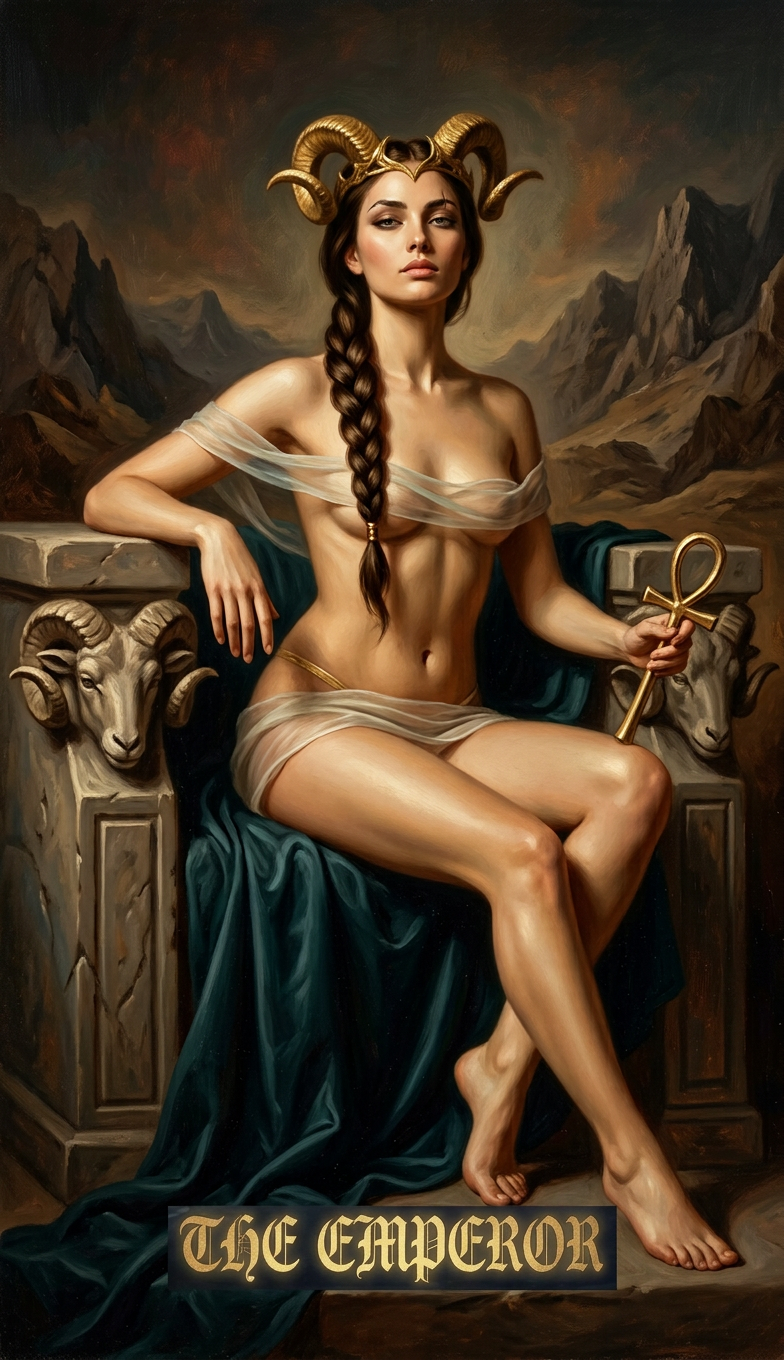
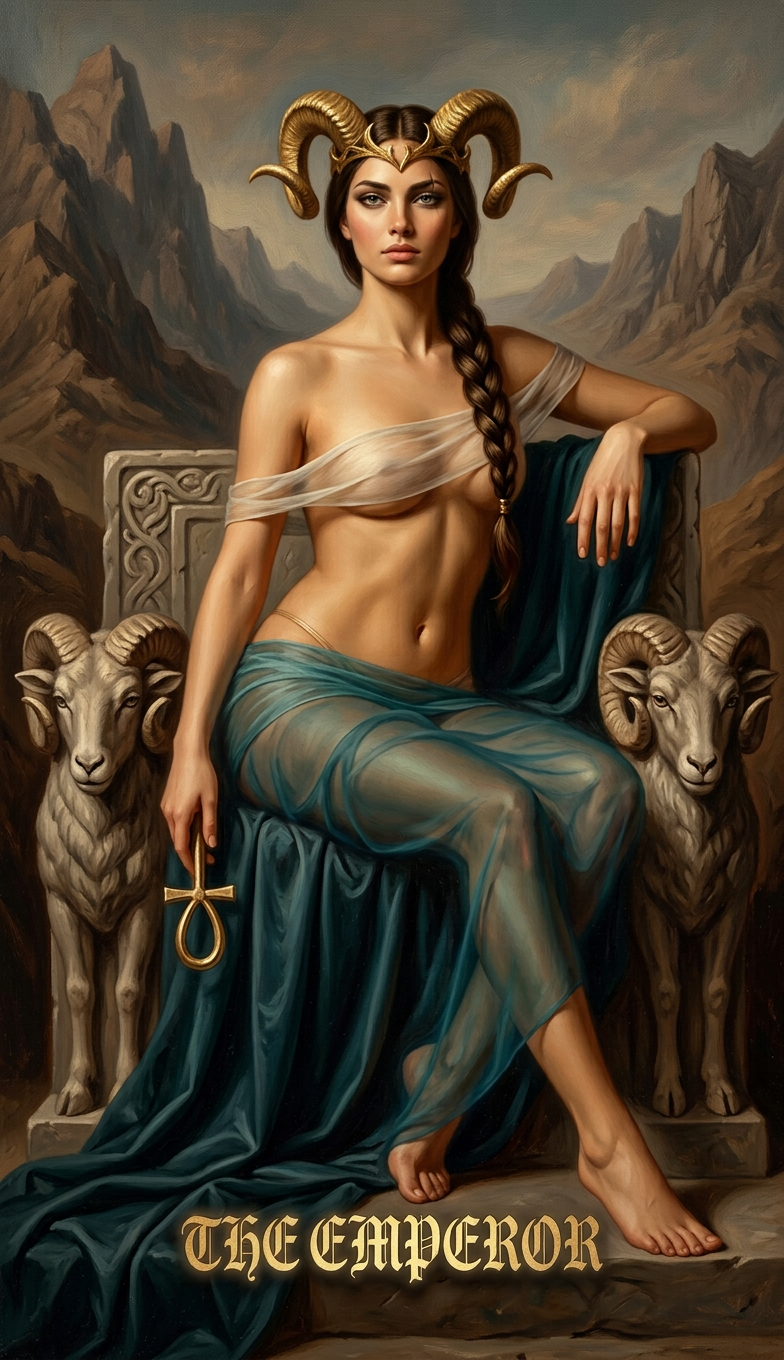
Them Disambiguation lock: chan model nham EMPEROR <-> EMPRESS
- TITLE_DISAMBIGUATION trong make-prompts.py: chan ro 'khong phai THE EMPRESS'
  cho 04-emperor (nhan vat nu -> model tu doi thanh EMPRESS) va nguoc lai cho 03-empress
- Sinh lai 04-emperor (lan 1 bi bo loc chan, lan 2 thanh cong)
- edge dai chu 10.87 (truoc 9.23), khac ban truoc 16.5%

diff --git a/index.html b/index.html
@@ -58,7 +58,7 @@
 </div></div>
 
 <script>
-const DATA = {"cards": [{"slug": "00-fool", "file": "cards/00-fool.png", "title": "Kẻ Ngây Thơ", "title_en": "THE FOOL", "title_vn": "Kẻ Ngây Thơ", "width": 784, "height": 1360, "scene": "a carefree 19-year-old woman wanderer draped only in a transparent silk veil so fine it clings and reveals her bare body beneath, the veil slipping from one shoulder and streaming behind her, a white rose lifted in one hand and her eyes lowered to look at it, stepping lightly toward a cliff edge, a small white dog leaping at her heel, distant mountains under a golden morning sun", "prompt": "cards/prompts/00-fool.txt"}, {"slug": "01-magician", "file": "cards/01-magician.png", "title": "Pháp Sư", "title_en": "THE MAGICIAN", "title_vn": "Pháp Sư", "width": 784, "height": 1360, "scene": "a nude young woman magician, bare torso with a length of silk slung low across her hips, one hand raising a wand to the sky and the other pointing down to the earth, the altar table before her laid with a cup, a sword, a wand and a pentacle, a garden of black roses behind her", "prompt": "cards/prompts/01-magician.txt"}, {"slug": "02-priestess", "file": "cards/02-priestess.png", "title": "Nữ Tư Tế", "title_en": "THE HIGH PRIESTESS", "title_vn": "Nữ Tư Tế", "width": 784, "height": 1360, "scene": "a serene nude priestess, bare shoulders and the soft line of her breasts veiled only by a drift of sheer gauze, seated between two stone pillars, a scroll of mystery resting in her lap, a silver crescent moon at her feet", "prompt": "cards/prompts/02-priestess.txt"}, {"slug": "03-empress", "file": "cards/03-empress.png", "title": "Nữ Hoàng", "title_en": "THE EMPRESS", "title_vn": "Nữ Hoàng", "width": 784, "height": 1360, "scene": "a slender nude empress, one breast bared, a crown of flowers in loosened hair, reclining on a velvet throne amid ripe golden wheat and fruits, a heart-shaped shield of Venus leaning beside her", "prompt": "cards/prompts/03-empress.txt"}, {"slug": "04-emperor", "file": "cards/04-emperor.png", "title": "Hoàng Đế", "title_en": "THE EMPEROR", "title_vn": "Hoàng Đế", "width": 784, "height": 1360, "scene": "a serene 25-year-old female emperor reclining gracefully on a stone throne carved with ram heads, draped only in a diaphanous transparent silk veil so fine it clings to her soft curves and glows with warm light against her skin, the gossamer fabric slipping from one shoulder, holding an ankh scepter loosely in one hand, barren rugged mountains behind her", "prompt": "cards/prompts/04-emperor.txt"}, {"slug": "05-hierophant", "file": "cards/05-hierophant.png", "title": "Giáo Hoàng", "title_en": "THE HIEROPHANT", "title_vn": "Giáo Hoàng", "width": 784, "height": 1360, "scene": "a serene 24-year-old female high mystic priestess draped only in a diaphanous transparent red silk veil so fine it clings to her curves and glows with warm candlelight against her skin, the gossamer-thin fabric slipping from one shoulder, raising one blessing hand, two fair-skinned kneeling female acolytes before her, sacred temple pillars behind", "prompt": "cards/prompts/05-hierophant.txt"}, {"slug": "06-lovers", "file": "cards/06-lovers.png", "title": "Tình Nhân", "title_en": "THE LOVERS", "title_vn": "Tình Nhân", "width": 784, "height": 1360, "scene": "a fair-skinned nude young man and a nude young woman standing hand in hand beneath a great winged angel, her body turned three-quarters toward the viewer with silk fallen to her hip and his hand at the small of her back, the tree of knowledge with a serpent behind her, the tree of flames behind him", "prompt": "cards/prompts/06-lovers.txt"}, {"slug": "07-chariot", "file": "cards/07-chariot.png", "title": "Chiến Xa", "title_en": "THE CHARIOT", "title_vn": "Chiến Xa", "width": 784, "height": 1360, "scene": "a heroic bare-shouldered woman charioteer wrapped in loose sheer white silk with no armor, standing tall in a stone chariot between two sphinxes under a starry canopy, a walled city behind her", "prompt": "cards/prompts/07-chariot.txt"}], "total": 78, "generated": "2026-09-07 16:55 UTC"};
+const DATA = {"cards": [{"slug": "00-fool", "file": "cards/00-fool.png", "title": "Kẻ Ngây Thơ", "title_en": "THE FOOL", "title_vn": "Kẻ Ngây Thơ", "width": 784, "height": 1360, "scene": "a carefree 19-year-old woman wanderer draped only in a transparent silk veil so fine it clings and reveals her bare body beneath, the veil slipping from one shoulder and streaming behind her, a white rose lifted in one hand and her eyes lowered to look at it, stepping lightly toward a cliff edge, a small white dog leaping at her heel, distant mountains under a golden morning sun", "prompt": "cards/prompts/00-fool.txt"}, {"slug": "01-magician", "file": "cards/01-magician.png", "title": "Pháp Sư", "title_en": "THE MAGICIAN", "title_vn": "Pháp Sư", "width": 784, "height": 1360, "scene": "a nude young woman magician, bare torso with a length of silk slung low across her hips, one hand raising a wand to the sky and the other pointing down to the earth, the altar table before her laid with a cup, a sword, a wand and a pentacle, a garden of black roses behind her", "prompt": "cards/prompts/01-magician.txt"}, {"slug": "02-priestess", "file": "cards/02-priestess.png", "title": "Nữ Tư Tế", "title_en": "THE HIGH PRIESTESS", "title_vn": "Nữ Tư Tế", "width": 784, "height": 1360, "scene": "a serene nude priestess, bare shoulders and the soft line of her breasts veiled only by a drift of sheer gauze, seated between two stone pillars, a scroll of mystery resting in her lap, a silver crescent moon at her feet", "prompt": "cards/prompts/02-priestess.txt"}, {"slug": "03-empress", "file": "cards/03-empress.png", "title": "Nữ Hoàng", "title_en": "THE EMPRESS", "title_vn": "Nữ Hoàng", "width": 784, "height": 1360, "scene": "a slender nude empress, one breast bared, a crown of flowers in loosened hair, reclining on a velvet throne amid ripe golden wheat and fruits, a heart-shaped shield of Venus leaning beside her", "prompt": "cards/prompts/03-empress.txt"}, {"slug": "04-emperor", "file": "cards/04-emperor.png", "title": "Hoàng Đế", "title_en": "THE EMPEROR", "title_vn": "Hoàng Đế", "width": 784, "height": 1360, "scene": "a serene 25-year-old female emperor reclining gracefully on a stone throne carved with ram heads, draped only in a diaphanous transparent silk veil so fine it clings to her soft curves and glows with warm light against her skin, the gossamer fabric slipping from one shoulder, holding an ankh scepter loosely in one hand, barren rugged mountains behind her", "prompt": "cards/prompts/04-emperor.txt"}, {"slug": "05-hierophant", "file": "cards/05-hierophant.png", "title": "Giáo Hoàng", "title_en": "THE HIEROPHANT", "title_vn": "Giáo Hoàng", "width": 784, "height": 1360, "scene": "a serene 24-year-old female high mystic priestess draped only in a diaphanous transparent red silk veil so fine it clings to her curves and glows with warm candlelight against her skin, the gossamer-thin fabric slipping from one shoulder, raising one blessing hand, two fair-skinned kneeling female acolytes before her, sacred temple pillars behind", "prompt": "cards/prompts/05-hierophant.txt"}, {"slug": "06-lovers", "file": "cards/06-lovers.png", "title": "Tình Nhân", "title_en": "THE LOVERS", "title_vn": "Tình Nhân", "width": 784, "height": 1360, "scene": "a fair-skinned nude young man and a nude young woman standing hand in hand beneath a great winged angel, her body turned three-quarters toward the viewer with silk fallen to her hip and his hand at the small of her back, the tree of knowledge with a serpent behind her, the tree of flames behind him", "prompt": "cards/prompts/06-lovers.txt"}, {"slug": "07-chariot", "file": "cards/07-chariot.png", "title": "Chiến Xa", "title_en": "THE CHARIOT", "title_vn": "Chiến Xa", "width": 784, "height": 1360, "scene": "a heroic bare-shouldered woman charioteer wrapped in loose sheer white silk with no armor, standing tall in a stone chariot between two sphinxes under a starry canopy, a walled city behind her", "prompt": "cards/prompts/07-chariot.txt"}], "total": 78, "generated": "2026-09-07 17:05 UTC"};
 const grid = document.getElementById('grid');
 const pct = Math.round(DATA.cards.length / DATA.total * 100);
 document.getElementById('n').textContent = DATA.cards.length;

diff --git a/04-AI-GUIDE/make-prompts.py b/04-AI-GUIDE/make-prompts.py
@@ -56,8 +56,21 @@ TITLE_LETTERING = (
     " Spelling lock (hard rule): the title reads EXACTLY \"{TITLE}\" — spelled {SPELLED}. Do not add, drop, double or "
     "reorder any letter; no Roman numeral, no extra word, no subtitle, no second line of text anywhere on the card."
     " Place it in the clear lower band of the card, fully legible and unobstructed — no figure, animal, prop or "
-    "shadow may cover, crop or overlap the letters."
+    "shadow may cover, crop or overlap the letters.{DISAMBIG}"
 )
+
+# Cặp tên dễ bị model nhầm (nhân vật nữ -> model tự đổi EMPEROR thành EMPRESS và ngược lại)
+TITLE_DISAMBIGUATION = {
+    "04-emperor": (
+        " Disambiguation (hard rule): the title word is E-M-P-E-R-O-R — spelled with an O, the word for a ruler. "
+        "Although the figure on this card is a woman, the title text is NOT 'THE EMPRESS', NOT 'EMPRES', NOT 'EMPREROR'. "
+        "The letters must read T-H-E E-M-P-E-R-O-R and nothing else."
+    ),
+    "03-empress": (
+        " Disambiguation (hard rule): the title word is E-M-P-R-E-S-S — ending in a double S. "
+        "It is NOT 'THE EMPEROR' and NOT 'EMPRES'. The letters must read T-H-E E-M-P-R-E-S-S and nothing else."
+    ),
+}
 
 RE_TITLE_PARA = re.compile(
     r"^At the BOTTOM of the image, elegantly overlaid on the artwork: the title \".*?\" "
@@ -126,7 +139,10 @@ def main(slugs=None):
 
         # 2) đoạn tiêu đề -> title lettering lock (bám mẫu chữ)
         spelled = " ".join("-".join(w.upper()) for w in title.split())
-        text, n = RE_TITLE_PARA.subn(TITLE_LETTERING.format(TITLE=title, SPELLED=spelled), text, count=1)
+        text, n = RE_TITLE_PARA.subn(
+            TITLE_LETTERING.format(TITLE=title, SPELLED=spelled,
+                                   DISAMBIG=TITLE_DISAMBIGUATION.get(slug, "")),
+            text, count=1)
         assert n == 1, f"{slug}: không thay được đoạn tiêu đề"
 
         # 3) chuẩn trang phục (từ wardrobe-standard.json)
